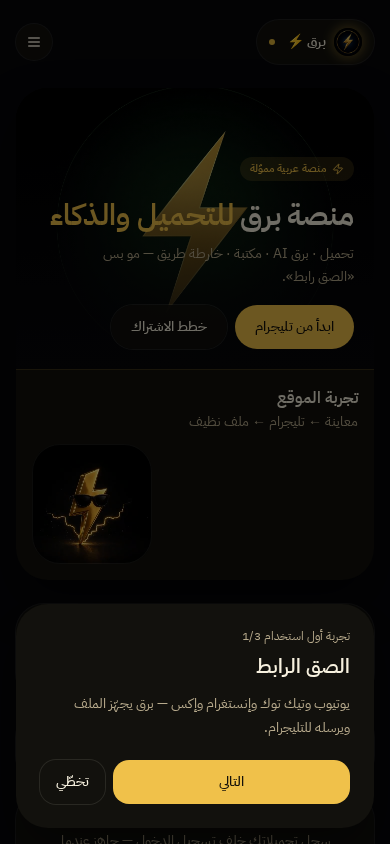
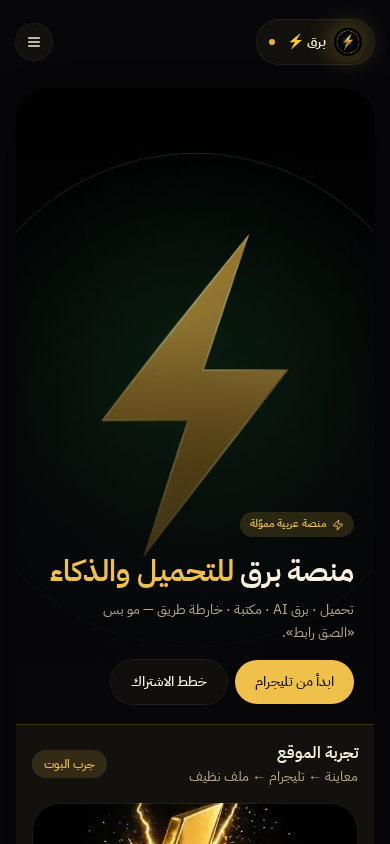
docs(site): record product-v2 preview URL + mobile smoke shots

diff --git a/docs/WEBSITE_PRODUCT_V2.md b/docs/WEBSITE_PRODUCT_V2.md
@@ -39,3 +39,13 @@ XAI_API_KEY=
 - No `vercel --prod`
 - Did not set BARQ_SUBSCRIPTIONS_LIVE / LEADERBOARD_LIVE / REFERRALS_LIVE true on production
 - No secret delete/rotate; no DROP/TRUNCATE
+
+
+## Preview URL
+
+https://barq-p000vhuq5-abdulrhmaan999-4640s-projects.vercel.app
+
+Deployed: 2026-09-22 ~19:18 Asia/Riyadh · Vercel project `barq-vid` · **preview only** (target=null, not production).
+
+Smoke: `/` `/pricing` `/login` `/register` `/api/ads` `/api/pricing-flags` → 200.
+Flags observed: `BARQ_SUBSCRIPTIONS_LIVE=false`, `BARQ_ADS_ENABLED=false`, `BARQ_SUBSCRIPTIONS_UI=true`.
